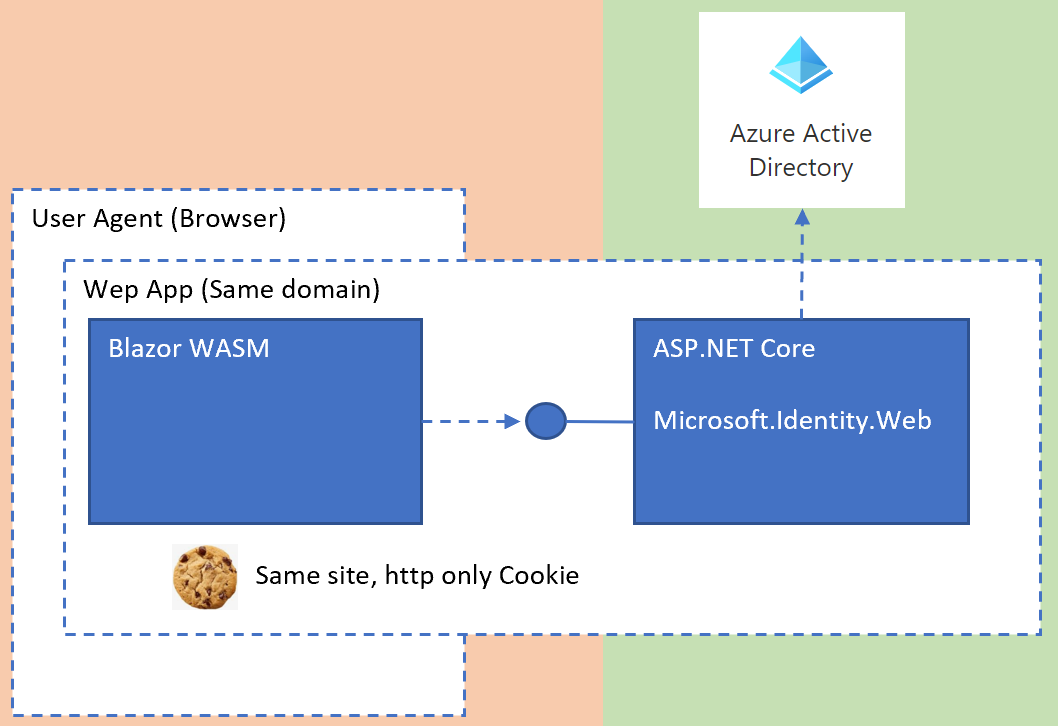
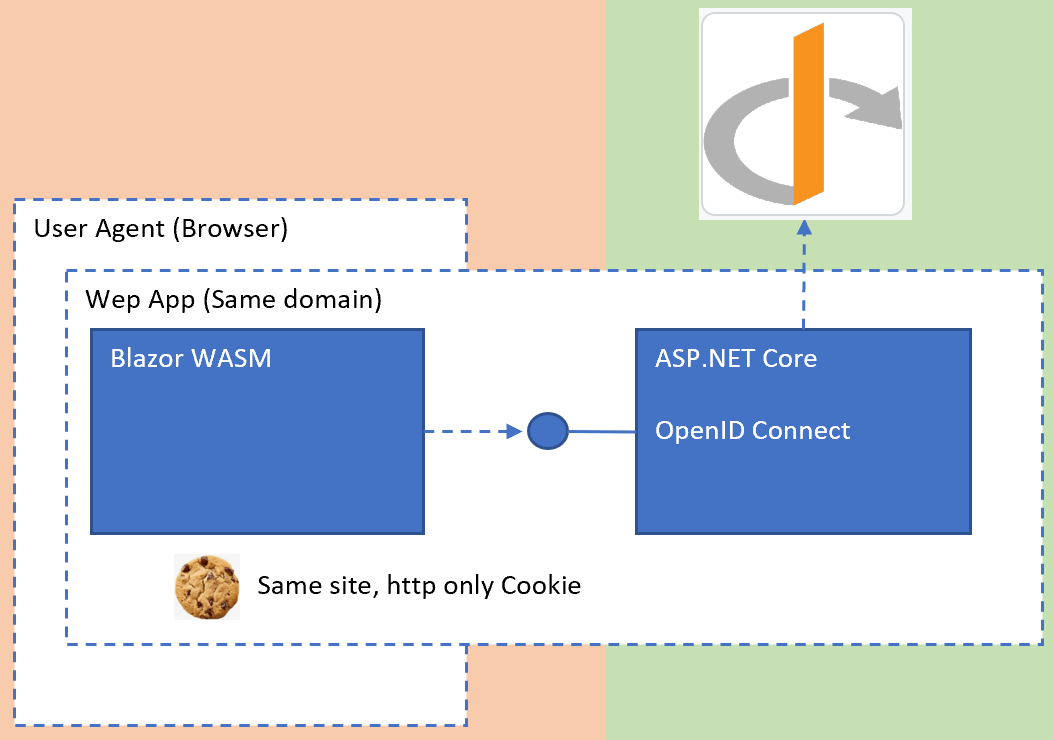
Update image and texts

Changed region(s): [[0.0, 0.0, 1.0, 1.0]]

diff --git a/Changelog.md b/Changelog.md
@@ -4,7 +4,7 @@
 
 **2021-12-25** 1.0.0
 - Initial release 
-- Azure AD authentication using OpenID Connect
+- Blazor authentication using OpenID Connect
 - ASP.NET Core 6
 
 
